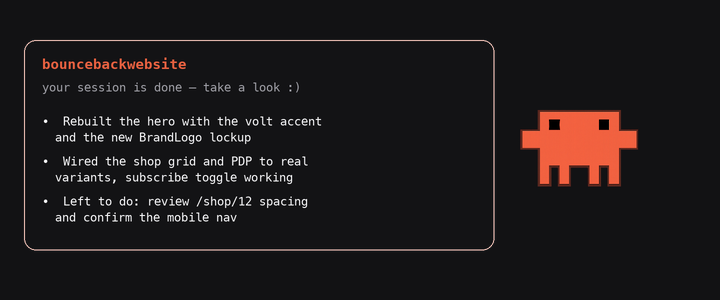
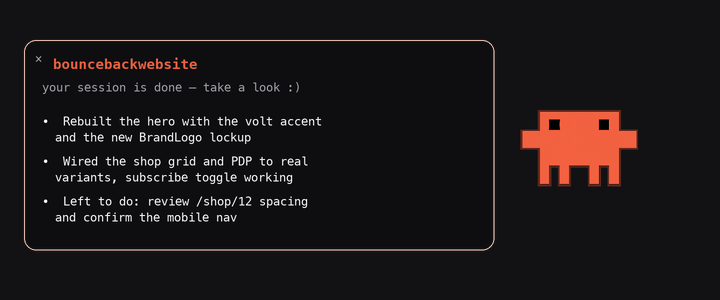
feat: dismiss button on each card
Adds a small X to the top-left of every speech bubble. Clicking it dismisses
that card only; clicking anywhere else still focuses the session's terminal.
Highlights on hover.

Changed region(s): [[0.0306, 0.18, 0.275, 0.24]]

diff --git a/README.md b/README.md
@@ -111,8 +111,10 @@ Either way, you're done. Next time any session finishes, he tells you which one:
 > **axiom-nextjs-platform-rebuild**
 > session is done — go look at it.
 
-**Click the card** and that session's Terminal tab jumps to the front. Sessions
-already running when you install pick the hook up automatically — no restart.
+**Click the card** and that session's Terminal tab jumps to the front — or click
+the small **✕** in its corner to dismiss it without going anywhere. Cards also
+fade on their own after a few seconds. Sessions already running when you install
+pick the hook up automatically — no restart.
 
 ---
 
@@ -152,6 +154,7 @@ do it.
 - **One card per session — they stack, never merge.** Four finish at once and you
   get four cards riding up the screen, each with its full untruncated text.
 - **Click a card** → the exact Terminal tab that ran that session comes forward.
+  Or hit the small **✕** in its top-left corner to just dismiss it.
 - **Drag him anywhere.** Position is remembered across reboots.
 - **Drawn menu, not Apple chrome.** Click the sprite for a terminal-styled menu in
   the same orange-on-black as Claude Code.
@@ -236,8 +239,10 @@ Menu → **Bubble detail** picks how much the card carries:
 
 <img src="docs/bubble.png" alt="Summary card with three bullets beside the pet">
 
-Summary cards widen automatically and grow to fit — long bullets wrap and indent
-under themselves rather than being cut off. Switching levels in the picker fires
+Every card carries a small **✕** in its top-left corner: click it to dismiss that
+card alone, click anywhere else on the card to jump to its terminal. Summary cards
+widen automatically and grow to fit — long bullets wrap and indent under themselves
+rather than being cut off. Switching levels in the picker fires
 a sample card so you can see the size before committing.
 
 **Where the points come from:** the hook reads the session's last substantive
